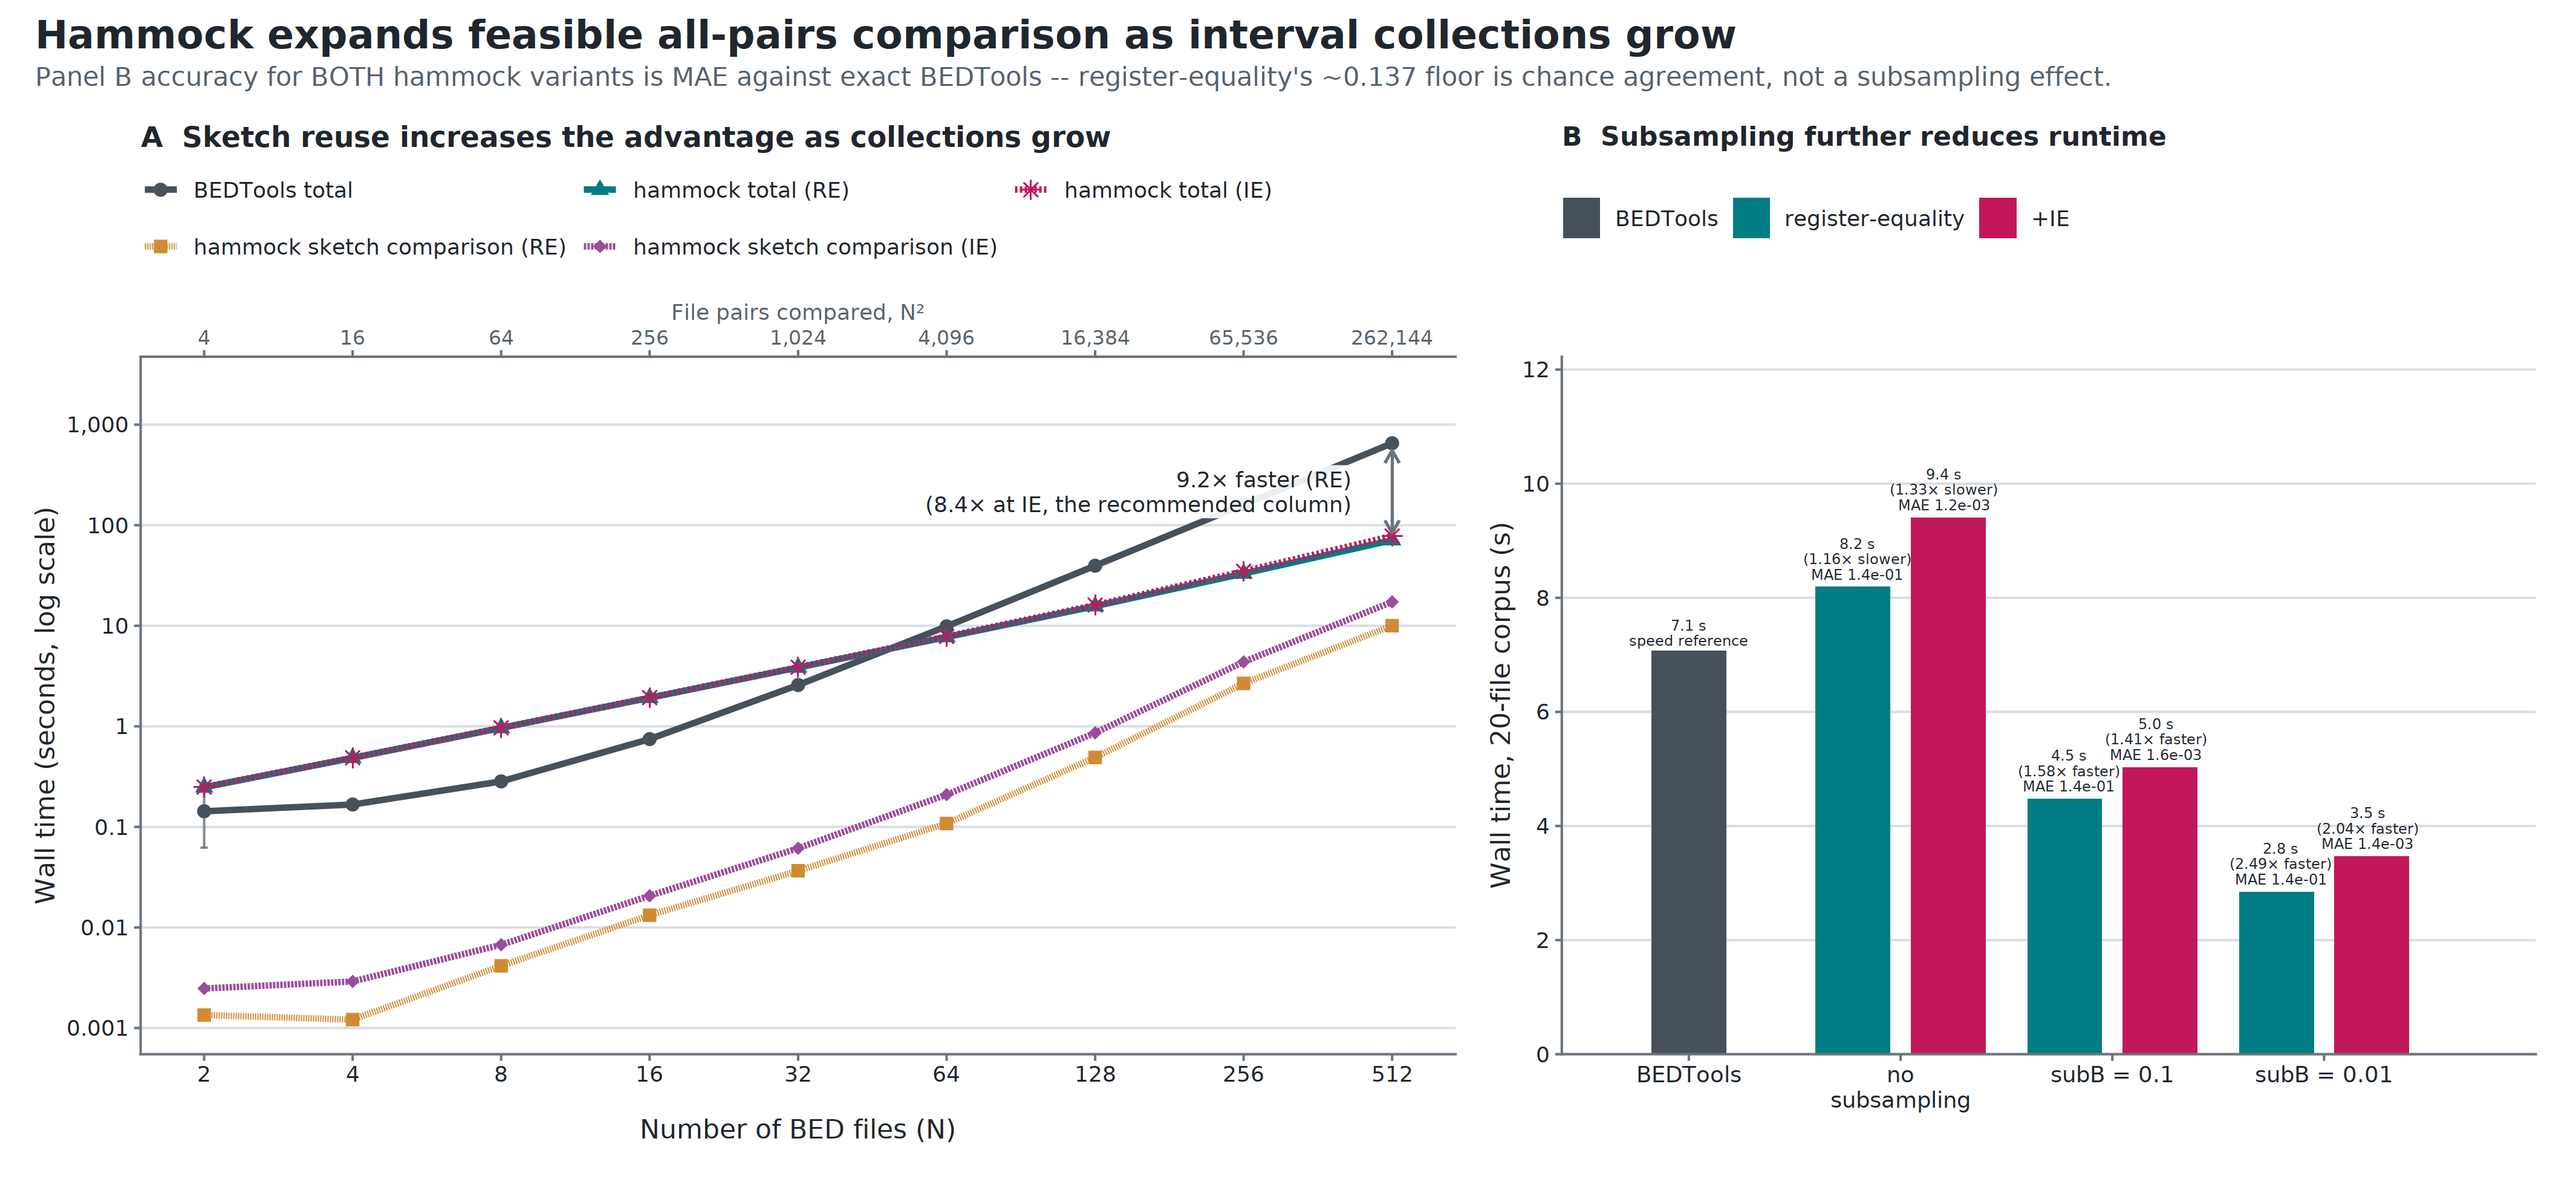
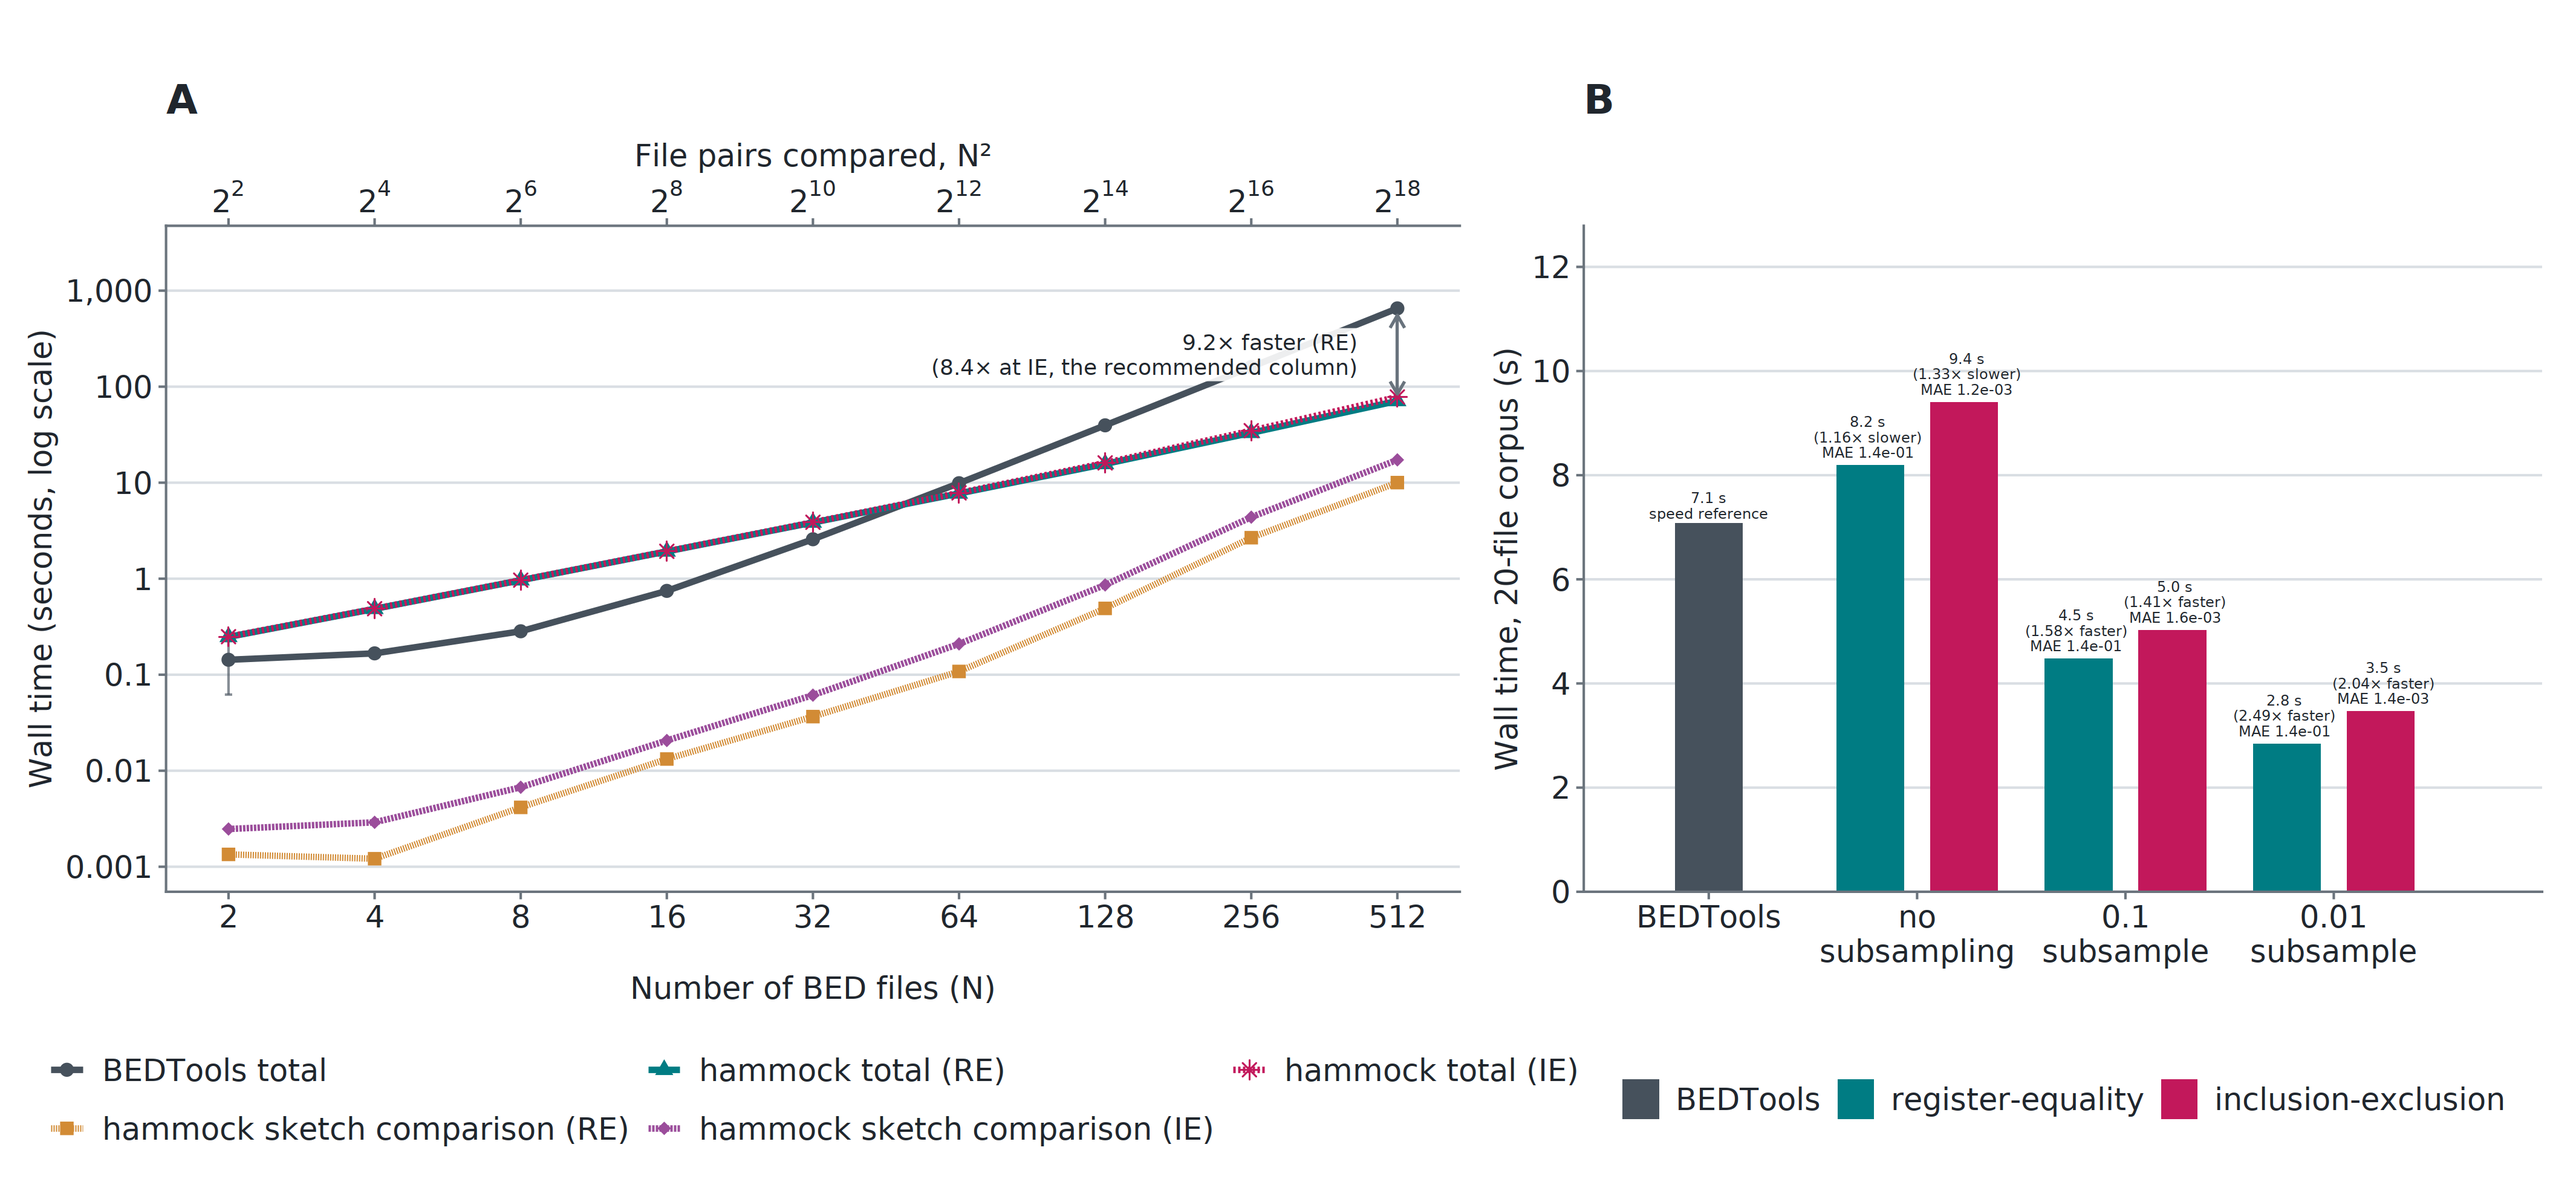
Refine scaling figure typography and layout

diff --git a/paper/draft.md b/paper/draft.md
@@ -277,7 +277,7 @@ Caveat worth carrying: `jaccard_similarity_ie` is censored at zero by the non-ne
 
 <img src="figures/pairwise_scaling_supplement.png" alt="Figure S9" width="850">
 
-**Figure S9.** Companion to Figure 3, for the supplement / advisor review rather than the main text. Same two panels and same underlying runs as Figure 3, but Panel A keeps both hammock variants (`reg_eq_similarity` and `jaccard_similarity_ie`, i.e. "hammock total" and "hammock total (+IE)", plus their sketch-comparison-phase components), and Panel B's register-equality bars are now scored the same way as the `+IE` bars — mean absolute error against exact BEDTools Jaccard, not drift from hammock's own unsubsampled run (which is what a pre-2026-08-10 version of this panel reported, and which is tautologically small at `subB=1.0` since that run *is* the baseline it would be diffed against). On that shared footing, register-equality's MAE is ~0.137–0.138 across all three subB levels — roughly 100× the `+IE` MAE (0.0012–0.0016) — and it is essentially flat across subsampling levels, because it is dominated by the register-equality chance-agreement floor (CLAUDE.md divergence #2, `c` ≈ 0.17), not by anything subsampling does. This is the reason Figure 3 itself reports `+IE` only: putting a bedtools-uncalibrated column next to a bedtools-calibrated one at face value, without this framing, invites exactly the miscomparison this figure is designed to make legible instead.
+**Figure S9.** Companion to Figure 3, using the same underlying runs. (A) **Sketch reuse increases the advantage as collections grow.** Panel A retains both hammock variants (`reg_eq_similarity` and `jaccard_similarity_ie`, labeled "hammock total (RE)" and "hammock total (IE)", plus their sketch-comparison-phase components). (B) **Subsampling further reduces runtime.** Panel B scores the register-equality bars on the same basis as the IE bars: mean absolute error against exact BEDTools Jaccard, rather than drift from hammock's own unsubsampled run. On that shared footing, register-equality's MAE is ~0.137–0.138 across all three subsampling levels—roughly 100× the IE MAE (0.0012–0.0016)—and remains essentially flat because it is dominated by the register-equality chance-agreement floor, not by subsampling. This is why Figure 3 itself reports IE only: placing a BEDTools-uncalibrated statistic beside a calibrated Jaccard estimate without this framing would invite a direct comparison of unlike quantities.
 
 **Figure S9 generation.** `paper/pairwise_scaling/plot_pairwise_scaling_supplement.R`, forked 2026-08-10 from the script that produces Figure 3 at the commit where it still plotted both hammock variants. Panel A shares Figure 3's `docs/data/cpp_vs_bedtools_t16_p18.csv` (job 29671317). Panel B shares Figure 3's `docs/data/maurano_bedtools.csv` and `docs/data/maurano_subB_ie_summary.csv`, plus a new `docs/data/maurano_subB_re_vs_bedtools.csv` (register-equality MAE vs exact BEDTools, computed from `experiments/subB_mixed_stride/results/sweep_maurano_ie_20260809_200658.csv` — mixed-stride, p=18, t=8, `rep=0`, against `docs/data/maurano_bedtools_ref.tsv`; reps are byte-identical, see `experiments/subB_mixed_stride/RESULTS.md` "Harness validation") and the existing register-equality wall times in `docs/data/maurano_subB_summary.csv`.
 
